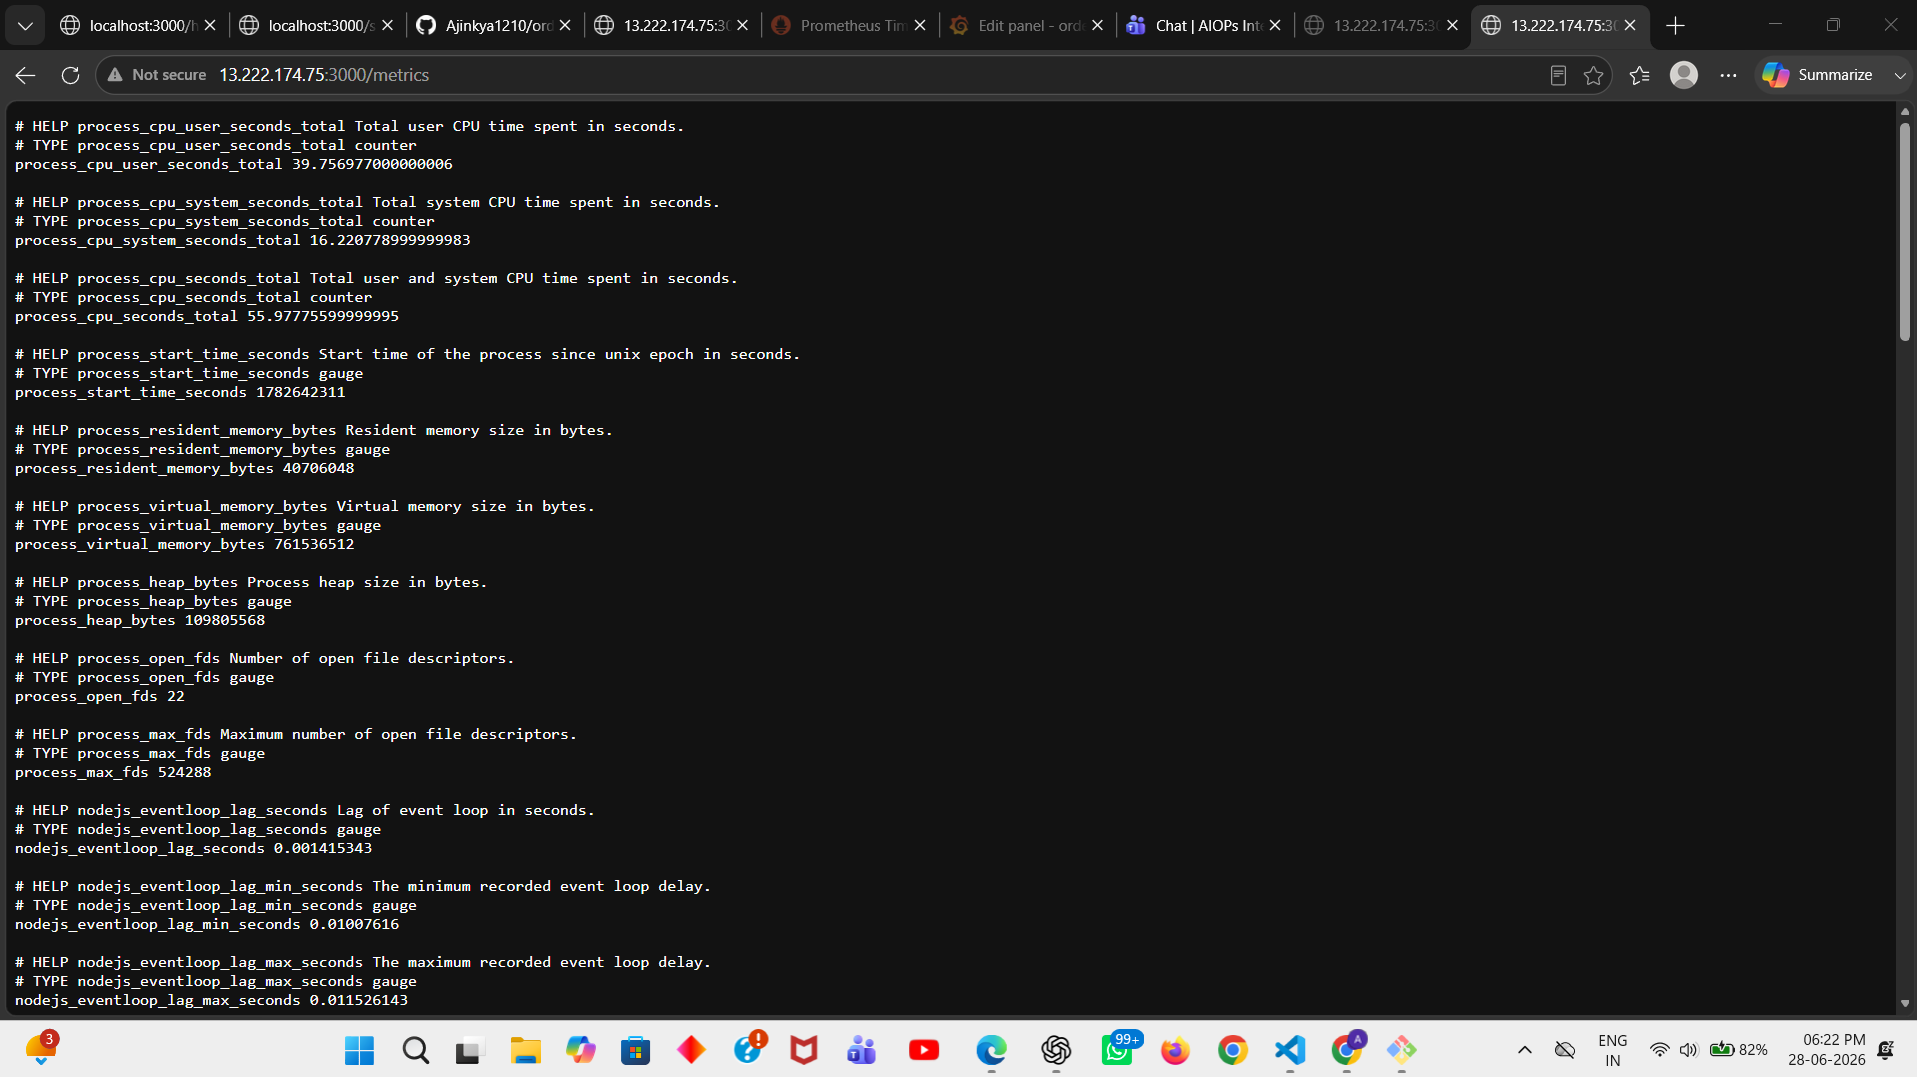
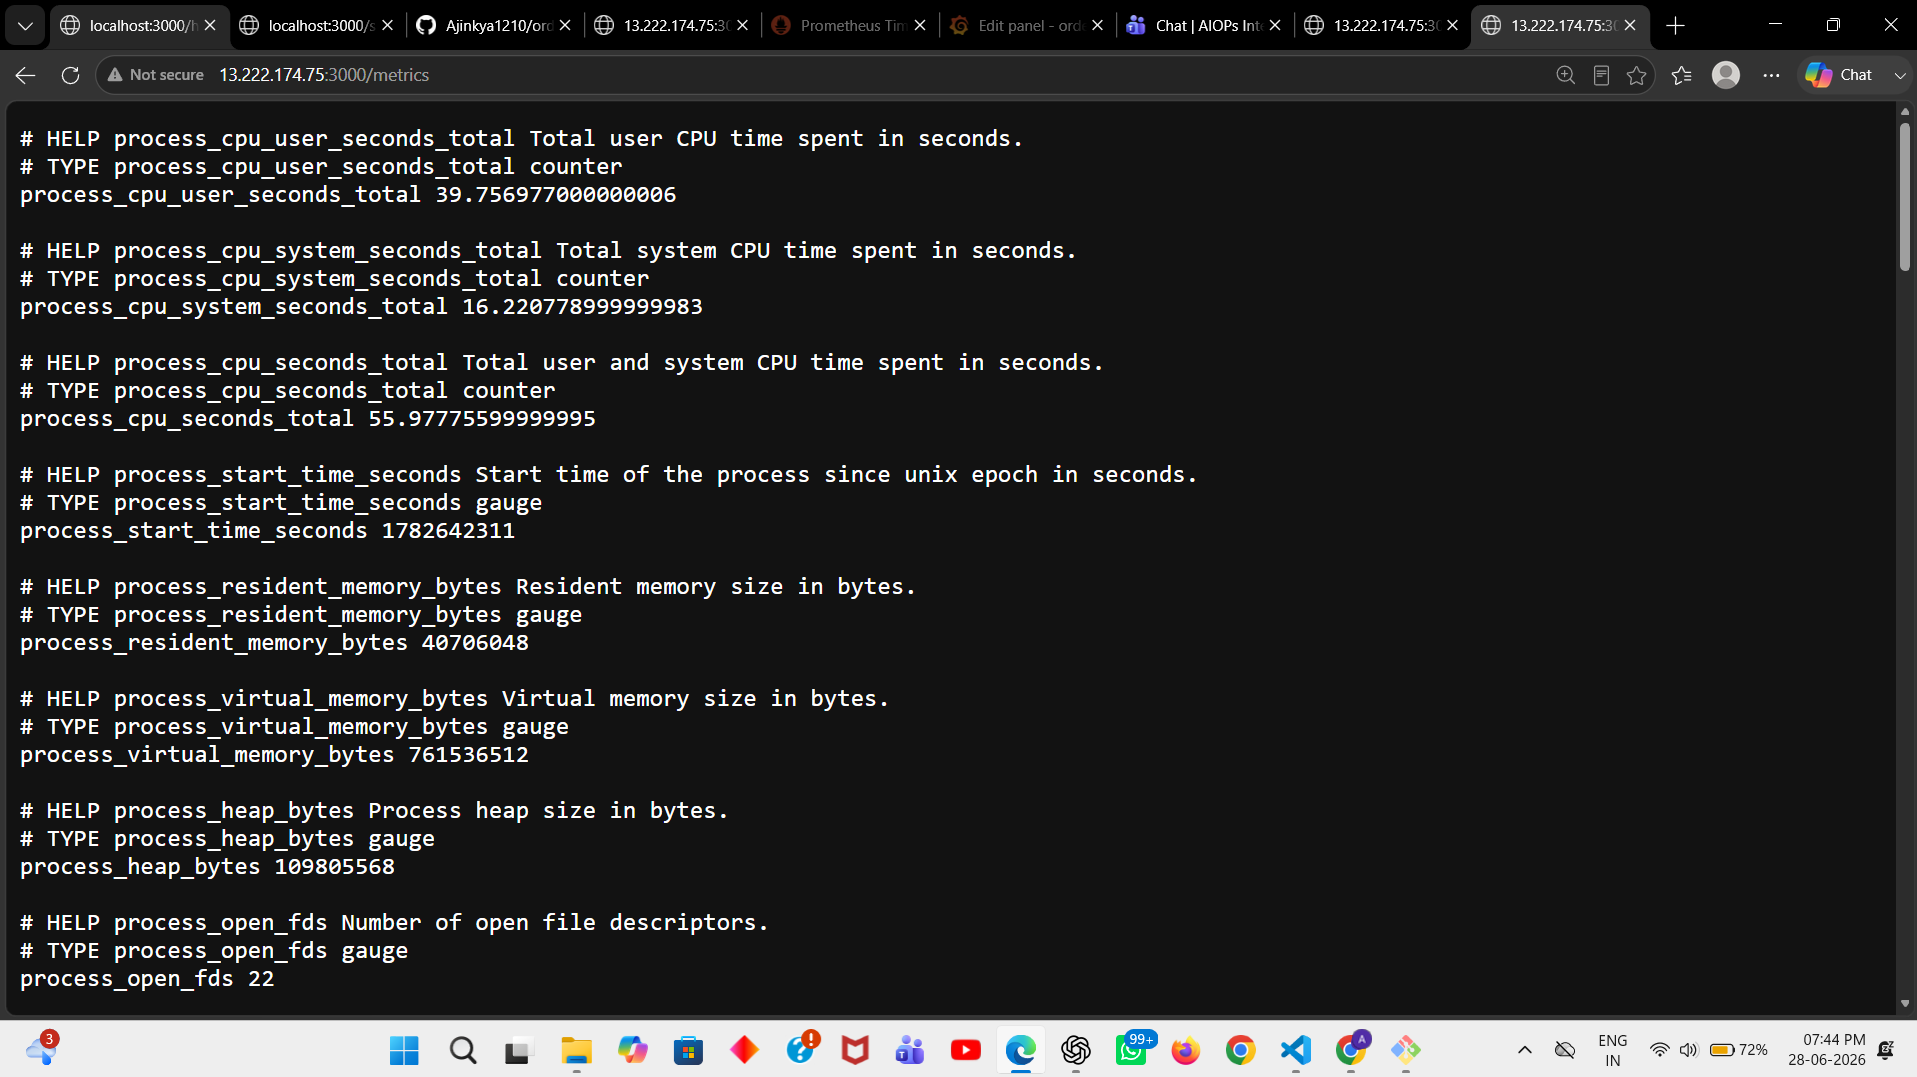
initial commit

diff --git a/Readme.md b/Readme.md
@@ -9,7 +9,12 @@
 ![Docker](https://img.shields.io/badge/Docker-Registry-0078D4?style=flat&logo=docker&logoColor=white)
 ![Prometheus](https://img.shields.io/badge/Prometheus-Monitoring-E6522C?style=flat&logo=prometheus&logoColor=white)
 ![Grafana](https://img.shields.io/badge/Grafana-Dashboard-F46800?style=flat&logo=grafana&logoColor=white)
+
+### Architecture
+![sc](sc/9.png)
+
 ### Overview
+
 This project is a simple Node.js microservice built using TypeScript and Express. It demonstrates a complete DevOps workflow including containerization, CI/CD automation, monitoring, and deployment on AWS.
 ### Features
 1.Health Check API
@@ -46,6 +51,29 @@ This project is a simple Node.js microservice built using TypeScript and Express
 1.Prometheus
 
 2.Grafana
+
+### AIOps Implementation
+
+This project includes a basic AIOps module that automatically analyzes Prometheus metrics and detects abnormal system behavior.
+
+#### Workflow
+
+1.Prometheus collects application metrics.
+
+2.Python AIOps script queries Prometheus API.
+
+3.Error counts are analyzed against a threshold.
+
+4.An alert is generated when abnormal behavior is detected.
+
+##### Example Alert
+
+Current Error Count: 19.0
+
+ALERT: High error rate detected!
+
+![sc](sc/10.png)
+
 ### Cloud
 1.AWS Cloud
 
@@ -54,6 +82,7 @@ This project is a simple Node.js microservice built using TypeScript and Express
 ### AWS Infrastructure
 #### API Endpoints
 #### 1. Health Check
+
 
 GET /health
 